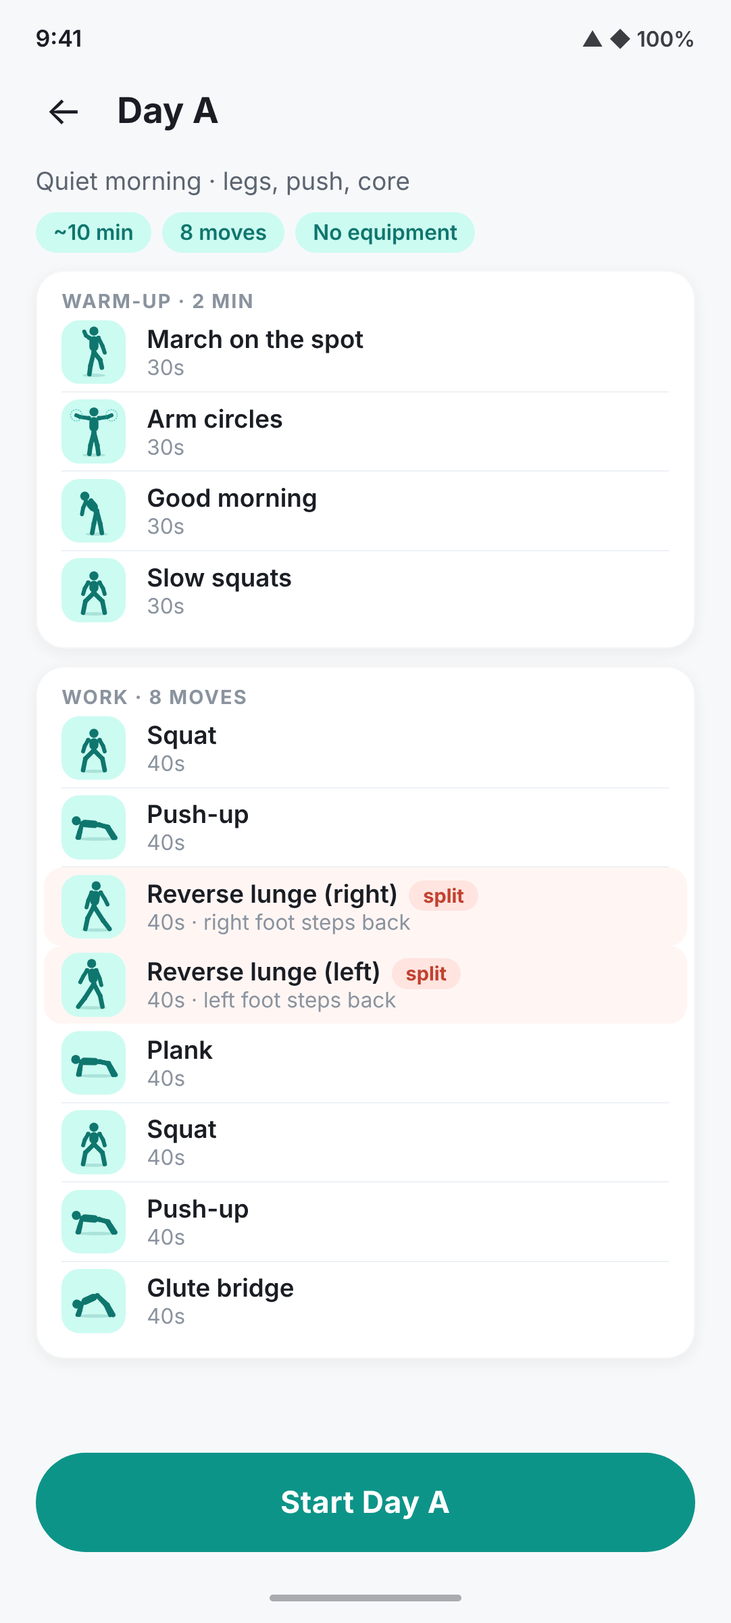
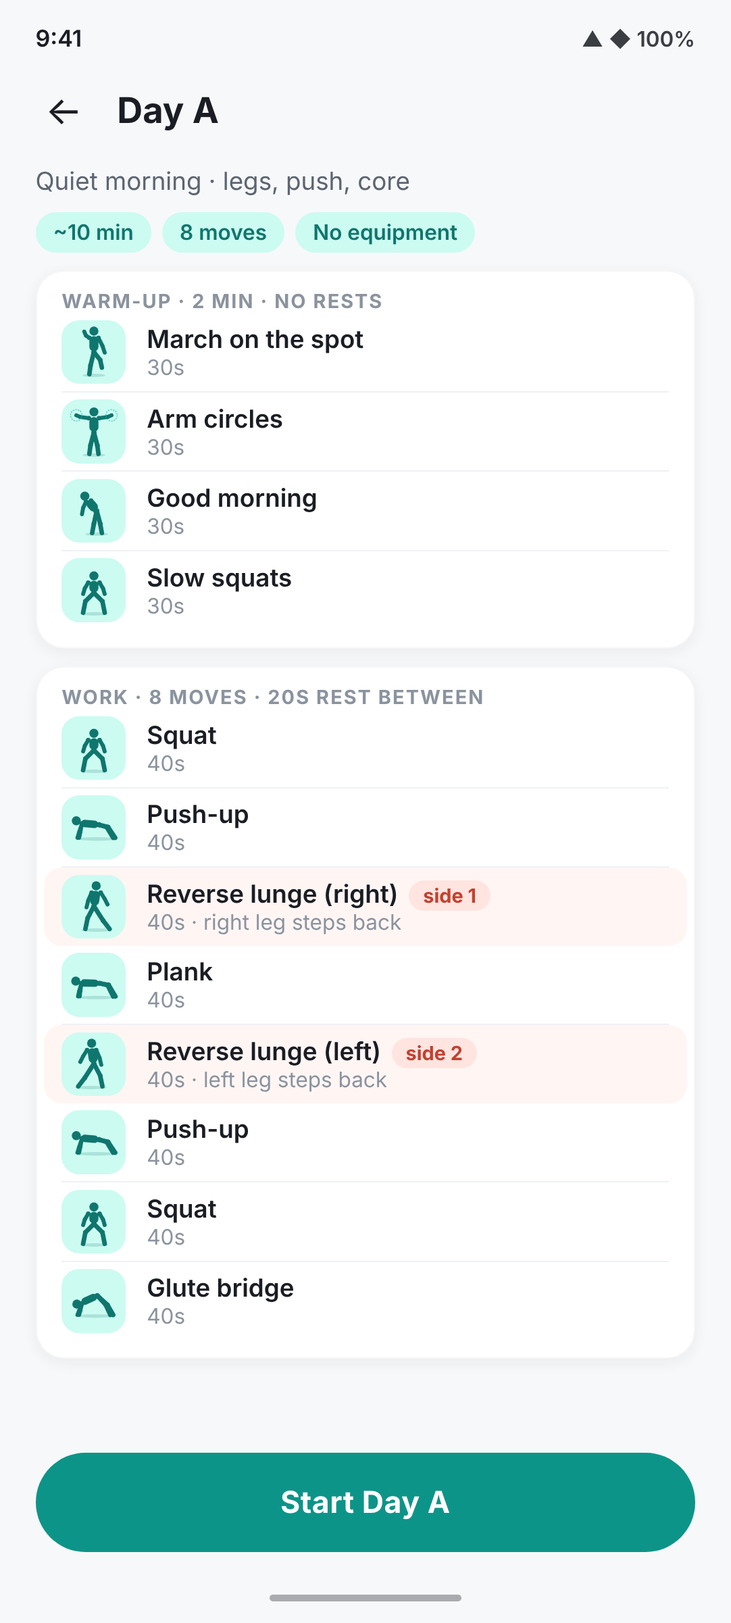
Revise Day A mockups: lunge order, clearer next-up, warm-up preview
Right lunge now means the right leg steps back, each side gets the full
40s, and Plank sits between the two sides. Next-up blocks use a coral
banner, dashed card and ghosted figure so they can't be confused with
the current move. Adds a warm-up screen that previews the next move for
the last quarter of each warm-up move.

diff --git a/docs/mockups/dayA-feedback/src/d-first-workout-card.html b/docs/mockups/dayA-feedback/src/d-first-workout-card.html
@@ -1,23 +1,4 @@
-<!doctype html><html><head><meta charset="utf-8"><link rel="stylesheet" href="../../src/shared.css"><link rel="stylesheet" href="extra.css"></head><body><div class="phone"><div class="status-bar"><span>9:41</span><span class="status-icons">▲ ◆ 100%</span></div>
-<div class="topbar"><div class="icon-btn">←</div><div class="title">Day A</div></div><div class="content" style="gap:10px">
-<div><div class="sub">Quiet morning · legs, push, core</div><div class="row" style="margin-top:8px;gap:6px"><span class="chip">~10 min</span><span class="chip">8 moves</span><span class="chip">No equipment</span></div></div>
-<div class="card" style="padding:10px 14px"><div class="lbl">Warm-up · 2 min</div><div class="list">
-<div class="item "><div class="thumb"><img class="" src="../../../../assets/figures/march.svg"></div><div><div class="nm">March on the spot</div><div class="meta">30s</div></div></div>
-<div class="item "><div class="thumb"><img class="" src="../../../../assets/figures/armCircles.svg"></div><div><div class="nm">Arm circles</div><div class="meta">30s</div></div></div>
-<div class="item "><div class="thumb"><img class="" src="../../../../assets/figures/goodMorning.svg"></div><div><div class="nm">Good morning</div><div class="meta">30s</div></div></div>
-<div class="item "><div class="thumb"><img class="" src="../../../../assets/figures/squat.svg"></div><div><div class="nm">Slow squats</div><div class="meta">30s</div></div></div>
-</div></div><div class="card" style="padding:10px 14px"><div class="lbl">Work · 8 moves</div><div class="list">
-<div class="item "><div class="thumb"><img class="" src="../../../../assets/figures/squat.svg"></div><div><div class="nm">Squat</div><div class="meta">40s</div></div></div>
-<div class="item "><div class="thumb"><img class="" src="../../../../assets/figures/pushup.svg"></div><div><div class="nm">Push-up</div><div class="meta">40s</div></div></div>
-<div class="item hl"><div class="thumb"><img class="" src="../../../../assets/figures/reverseLunge.svg"></div><div><div class="nm">Reverse lunge (right)<span class="new">split</span></div><div class="meta">40s · right foot steps back</div></div></div>
-<div class="item hl"><div class="thumb"><img class="mirror" src="../../../../assets/figures/reverseLunge.svg"></div><div><div class="nm">Reverse lunge (left)<span class="new">split</span></div><div class="meta">40s · left foot steps back</div></div></div>
-<div class="item "><div class="thumb"><img class="" src="../../../../assets/figures/plank.svg"></div><div><div class="nm">Plank</div><div class="meta">40s</div></div></div>
-<div class="item "><div class="thumb"><img class="" src="../../../../assets/figures/squat.svg"></div><div><div class="nm">Squat</div><div class="meta">40s</div></div></div>
-<div class="item "><div class="thumb"><img class="" src="../../../../assets/figures/pushup.svg"></div><div><div class="nm">Push-up</div><div class="meta">40s</div></div></div>
-<div class="item "><div class="thumb"><img class="" src="../../../../assets/figures/gluteBridge.svg"></div><div><div class="nm">Glute bridge</div><div class="meta">40s</div></div></div>
-</div></div><div class="spacer"></div><div class="btn">Start Day A</div></div>
-<div class="nav-bar"><div class="nav-pill"></div></div>
-<div class="scrim"></div>
+<!doctype html><html><head><meta charset="utf-8"><link rel="stylesheet" href="../../src/shared.css"><link rel="stylesheet" href="extra.css"></head><body><div class="phone"><div class="status-bar"><span>9:41</span><span class="status-icons">▲ ◆ 100%</span></div><div class="topbar"><div class="icon-btn">←</div><div class="title">Day A</div></div><div class="content" style="gap:10px"><div><div class="sub">Quiet morning · legs, push, core</div><div class="row" style="margin-top:8px;gap:6px"><span class="chip">~10 min</span><span class="chip">8 moves</span><span class="chip">No equipment</span></div></div><div class="card" style="padding:10px 14px"><div class="lbl">Warm-up · 2 min · no rests</div><div class="list"><div class="item "><div class="thumb"><img class="" src="../../../../assets/figures/march.svg"></div><div><div class="nm">March on the spot</div><div class="meta">30s</div></div></div><div class="item "><div class="thumb"><img class="" src="../../../../assets/figures/armCircles.svg"></div><div><div class="nm">Arm circles</div><div class="meta">30s</div></div></div><div class="item "><div class="thumb"><img class="" src="../../../../assets/figures/goodMorning.svg"></div><div><div class="nm">Good morning</div><div class="meta">30s</div></div></div><div class="item "><div class="thumb"><img class="" src="../../../../assets/figures/squat.svg"></div><div><div class="nm">Slow squats</div><div class="meta">30s</div></div></div></div></div><div class="card" style="padding:10px 14px"><div class="lbl">Work · 8 moves · 20s rest between</div><div class="list"><div class="item "><div class="thumb"><img class="" src="../../../../assets/figures/squat.svg"></div><div><div class="nm">Squat</div><div class="meta">40s</div></div></div><div class="item "><div class="thumb"><img class="" src="../../../../assets/figures/pushup.svg"></div><div><div class="nm">Push-up</div><div class="meta">40s</div></div></div><div class="item hl"><div class="thumb"><img class="" src="../../../../assets/figures/reverseLunge.svg"></div><div><div class="nm">Reverse lunge (right)<span class="new">side 1</span></div><div class="meta">40s · right leg steps back</div></div></div><div class="item "><div class="thumb"><img class="" src="../../../../assets/figures/plank.svg"></div><div><div class="nm">Plank</div><div class="meta">40s</div></div></div><div class="item hl"><div class="thumb"><img class="mirror" src="../../../../assets/figures/reverseLunge.svg"></div><div><div class="nm">Reverse lunge (left)<span class="new">side 2</span></div><div class="meta">40s · left leg steps back</div></div></div><div class="item "><div class="thumb"><img class="" src="../../../../assets/figures/pushup.svg"></div><div><div class="nm">Push-up</div><div class="meta">40s</div></div></div><div class="item "><div class="thumb"><img class="" src="../../../../assets/figures/squat.svg"></div><div><div class="nm">Squat</div><div class="meta">40s</div></div></div><div class="item "><div class="thumb"><img class="" src="../../../../assets/figures/gluteBridge.svg"></div><div><div class="nm">Glute bridge</div><div class="meta">40s</div></div></div></div></div><div class="spacer"></div><div class="btn">Start Day A</div></div><div class="nav-bar"><div class="nav-pill"></div></div><div class="scrim"></div>
 <div class="dialog"><div class="badge"><img src="../../../../assets/figures/march.svg" style="width:44px;height:44px"></div>
 <h2>Before you start</h2>
 <p>Don't worry about getting everything right — you'll get familiar with the moves over time.</p>

diff --git a/docs/mockups/dayA-feedback/src/a-dayA-list.html b/docs/mockups/dayA-feedback/src/a-dayA-list.html
@@ -1,19 +1,1 @@
-<!doctype html><html><head><meta charset="utf-8"><link rel="stylesheet" href="../../src/shared.css"><link rel="stylesheet" href="extra.css"></head><body><div class="phone"><div class="status-bar"><span>9:41</span><span class="status-icons">▲ ◆ 100%</span></div>
-<div class="topbar"><div class="icon-btn">←</div><div class="title">Day A</div></div><div class="content" style="gap:10px">
-<div><div class="sub">Quiet morning · legs, push, core</div><div class="row" style="margin-top:8px;gap:6px"><span class="chip">~10 min</span><span class="chip">8 moves</span><span class="chip">No equipment</span></div></div>
-<div class="card" style="padding:10px 14px"><div class="lbl">Warm-up · 2 min</div><div class="list">
-<div class="item "><div class="thumb"><img class="" src="../../../../assets/figures/march.svg"></div><div><div class="nm">March on the spot</div><div class="meta">30s</div></div></div>
-<div class="item "><div class="thumb"><img class="" src="../../../../assets/figures/armCircles.svg"></div><div><div class="nm">Arm circles</div><div class="meta">30s</div></div></div>
-<div class="item "><div class="thumb"><img class="" src="../../../../assets/figures/goodMorning.svg"></div><div><div class="nm">Good morning</div><div class="meta">30s</div></div></div>
-<div class="item "><div class="thumb"><img class="" src="../../../../assets/figures/squat.svg"></div><div><div class="nm">Slow squats</div><div class="meta">30s</div></div></div>
-</div></div><div class="card" style="padding:10px 14px"><div class="lbl">Work · 8 moves</div><div class="list">
-<div class="item "><div class="thumb"><img class="" src="../../../../assets/figures/squat.svg"></div><div><div class="nm">Squat</div><div class="meta">40s</div></div></div>
-<div class="item "><div class="thumb"><img class="" src="../../../../assets/figures/pushup.svg"></div><div><div class="nm">Push-up</div><div class="meta">40s</div></div></div>
-<div class="item hl"><div class="thumb"><img class="" src="../../../../assets/figures/reverseLunge.svg"></div><div><div class="nm">Reverse lunge (right)<span class="new">split</span></div><div class="meta">40s · right foot steps back</div></div></div>
-<div class="item hl"><div class="thumb"><img class="mirror" src="../../../../assets/figures/reverseLunge.svg"></div><div><div class="nm">Reverse lunge (left)<span class="new">split</span></div><div class="meta">40s · left foot steps back</div></div></div>
-<div class="item "><div class="thumb"><img class="" src="../../../../assets/figures/plank.svg"></div><div><div class="nm">Plank</div><div class="meta">40s</div></div></div>
-<div class="item "><div class="thumb"><img class="" src="../../../../assets/figures/squat.svg"></div><div><div class="nm">Squat</div><div class="meta">40s</div></div></div>
-<div class="item "><div class="thumb"><img class="" src="../../../../assets/figures/pushup.svg"></div><div><div class="nm">Push-up</div><div class="meta">40s</div></div></div>
-<div class="item "><div class="thumb"><img class="" src="../../../../assets/figures/gluteBridge.svg"></div><div><div class="nm">Glute bridge</div><div class="meta">40s</div></div></div>
-</div></div><div class="spacer"></div><div class="btn">Start Day A</div></div>
-<div class="nav-bar"><div class="nav-pill"></div></div></div></body></html>
+<!doctype html><html><head><meta charset="utf-8"><link rel="stylesheet" href="../../src/shared.css"><link rel="stylesheet" href="extra.css"></head><body><div class="phone"><div class="status-bar"><span>9:41</span><span class="status-icons">▲ ◆ 100%</span></div><div class="topbar"><div class="icon-btn">←</div><div class="title">Day A</div></div><div class="content" style="gap:10px"><div><div class="sub">Quiet morning · legs, push, core</div><div class="row" style="margin-top:8px;gap:6px"><span class="chip">~10 min</span><span class="chip">8 moves</span><span class="chip">No equipment</span></div></div><div class="card" style="padding:10px 14px"><div class="lbl">Warm-up · 2 min · no rests</div><div class="list"><div class="item "><div class="thumb"><img class="" src="../../../../assets/figures/march.svg"></div><div><div class="nm">March on the spot</div><div class="meta">30s</div></div></div><div class="item "><div class="thumb"><img class="" src="../../../../assets/figures/armCircles.svg"></div><div><div class="nm">Arm circles</div><div class="meta">30s</div></div></div><div class="item "><div class="thumb"><img class="" src="../../../../assets/figures/goodMorning.svg"></div><div><div class="nm">Good morning</div><div class="meta">30s</div></div></div><div class="item "><div class="thumb"><img class="" src="../../../../assets/figures/squat.svg"></div><div><div class="nm">Slow squats</div><div class="meta">30s</div></div></div></div></div><div class="card" style="padding:10px 14px"><div class="lbl">Work · 8 moves · 20s rest between</div><div class="list"><div class="item "><div class="thumb"><img class="" src="../../../../assets/figures/squat.svg"></div><div><div class="nm">Squat</div><div class="meta">40s</div></div></div><div class="item "><div class="thumb"><img class="" src="../../../../assets/figures/pushup.svg"></div><div><div class="nm">Push-up</div><div class="meta">40s</div></div></div><div class="item hl"><div class="thumb"><img class="" src="../../../../assets/figures/reverseLunge.svg"></div><div><div class="nm">Reverse lunge (right)<span class="new">side 1</span></div><div class="meta">40s · right leg steps back</div></div></div><div class="item "><div class="thumb"><img class="" src="../../../../assets/figures/plank.svg"></div><div><div class="nm">Plank</div><div class="meta">40s</div></div></div><div class="item hl"><div class="thumb"><img class="mirror" src="../../../../assets/figures/reverseLunge.svg"></div><div><div class="nm">Reverse lunge (left)<span class="new">side 2</span></div><div class="meta">40s · left leg steps back</div></div></div><div class="item "><div class="thumb"><img class="" src="../../../../assets/figures/pushup.svg"></div><div><div class="nm">Push-up</div><div class="meta">40s</div></div></div><div class="item "><div class="thumb"><img class="" src="../../../../assets/figures/squat.svg"></div><div><div class="nm">Squat</div><div class="meta">40s</div></div></div><div class="item "><div class="thumb"><img class="" src="../../../../assets/figures/gluteBridge.svg"></div><div><div class="nm">Glute bridge</div><div class="meta">40s</div></div></div></div></div><div class="spacer"></div><div class="btn">Start Day A</div></div><div class="nav-bar"><div class="nav-pill"></div></div></div></body></html>

diff --git a/docs/mockups/dayA-feedback/src/c-rest-next.html b/docs/mockups/dayA-feedback/src/c-rest-next.html
@@ -1,9 +1,1 @@
-<!doctype html><html><head><meta charset="utf-8"><link rel="stylesheet" href="../../src/shared.css"><link rel="stylesheet" href="extra.css"></head><body><div class="phone"><div class="status-bar"><span>9:41</span><span class="status-icons">▲ ◆ 100%</span></div>
-<div class="topbar"><div class="icon-btn">✕</div><div class="title">Rest</div><div class="spacer"></div><span class="muted">Next: move 4 of 8</span></div><div class="content" style="gap:14px">
-<div class="ringrow" style="margin-top:10px"><svg width="150" height="150" viewBox="0 0 150 150"><circle cx="75" cy="75" r="62" fill="none" stroke="#E3E8EE" stroke-width="12"/><circle cx="75" cy="75" r="62" fill="none" stroke="#F59E0B" stroke-width="12" stroke-linecap="round" stroke-dasharray="233.7 389.6" transform="rotate(-90 75 75)"/><text x="75" y="80" text-anchor="middle" font-size="44" font-weight="800" fill="#1F2A33" font-family="Roboto,sans-serif">12</text><text x="75" y="104" text-anchor="middle" font-size="13" fill="#8A939E" font-family="Roboto,sans-serif">rest</text></svg></div>
-<div class="exname" style="font-size:24px">Catch your breath</div>
-<div class="card"><div class="lbl" style="margin-bottom:10px">Next up</div><div class="nextcard"><div class="thumb"><img class="mirror" src="../../../../assets/figures/reverseLunge.svg"></div><div><div style="font-size:20px;font-weight:800;color:#1F2A33">Reverse lunge (left)</div><div class="cue" style="text-align:left;padding:4px 0 0">Step your <b>left</b> foot back and lower until both knees bend about 90°. Front heel stays planted.</div></div></div></div>
-<div class="fig" style="max-height:250px"><img class="mirror" style="max-height:230px" src="../../../../assets/figures/reverseLunge.svg"></div>
-<div class="spacer"></div><div class="ctrls"><div class="side">‹ Prev</div><div class="pause">Pause</div><div class="side skip">Skip ›</div></div>
-<div class="muted" style="text-align:center">No ads during the timer</div></div>
-<div class="nav-bar"><div class="nav-pill"></div></div></div></body></html>
+<!doctype html><html><head><meta charset="utf-8"><link rel="stylesheet" href="../../src/shared.css"><link rel="stylesheet" href="extra.css"></head><body><div class="phone"><div class="status-bar"><span>9:41</span><span class="status-icons">▲ ◆ 100%</span></div><div class="topbar"><div class="icon-btn">✕</div><div class="title">Rest</div><div class="spacer"></div><span class="muted">After move 4 of 8</span></div><div class="content" style="gap:14px"><div class="ringrow" style="margin-top:8px"><svg width="170" height="170" viewBox="0 0 150 150"><circle cx="75" cy="75" r="62" fill="none" stroke="#E3E8EE" stroke-width="12"/><circle cx="75" cy="75" r="62" fill="none" stroke="#F59E0B" stroke-width="12" stroke-linecap="round" stroke-dasharray="233.7 389.6" transform="rotate(-90 75 75)"/><text x="75" y="82" text-anchor="middle" font-size="46" font-weight="800" fill="#1F2A33" font-family="Roboto,sans-serif">12</text><text x="75" y="106" text-anchor="middle" font-size="13" fill="#5C6570" font-family="Roboto,sans-serif">rest left</text></svg></div><div class="exname" style="font-size:26px">Catch your breath</div><div class="sub" style="text-align:center;margin-top:-8px">Plank done. Nice work.</div><div class="nu"><div class="nu-banner">NEXT UP · GET READY<span>starts in 12s</span></div><div class="nu-body"><div class="nu-fig"><img class="mirror" src="../../../../assets/figures/reverseLunge.svg"></div><div><div class="nu-name">Reverse lunge (left)</div><div class="nu-cue">Step your <b>left</b> foot back and lower until both knees bend about 90°. Front heel stays planted.</div></div></div></div><div class="getready">Starts automatically when the rest ends</div><div class="spacer"></div><div class="ctrls"><div class="side">‹ Prev</div><div class="pause">Pause</div><div class="side skip">Skip ›</div></div><div class="muted" style="text-align:center">No ads during the timer</div></div><div class="nav-bar"><div class="nav-pill"></div></div></div></body></html>

diff --git a/docs/mockups/dayA-feedback/src/b-exercise-cue.html b/docs/mockups/dayA-feedback/src/b-exercise-cue.html
@@ -1,10 +1,1 @@
-<!doctype html><html><head><meta charset="utf-8"><link rel="stylesheet" href="../../src/shared.css"><link rel="stylesheet" href="extra.css"></head><body><div class="phone"><div class="status-bar"><span>9:41</span><span class="status-icons">▲ ◆ 100%</span></div>
-<div class="topbar"><div class="icon-btn">✕</div><div class="title">Work</div><div class="spacer"></div><span class="muted">Move 3 of 8</span></div><div class="content" style="gap:10px">
-<div class="fig"><img src="../../../../assets/figures/reverseLunge.svg"></div>
-<div class="exname">Reverse lunge (right)</div>
-<div class="cue">Step your <b>right</b> foot back and lower until both knees bend about 90°. Drive up through the front heel.</div>
-<div class="ringrow"><svg width="150" height="150" viewBox="0 0 150 150"><circle cx="75" cy="75" r="62" fill="none" stroke="#E3E8EE" stroke-width="12"/><circle cx="75" cy="75" r="62" fill="none" stroke="#0D9488" stroke-width="12" stroke-linecap="round" stroke-dasharray="264.9 389.6" transform="rotate(-90 75 75)"/><text x="75" y="80" text-anchor="middle" font-size="44" font-weight="800" fill="#1F2A33" font-family="Roboto,sans-serif">27</text><text x="75" y="104" text-anchor="middle" font-size="13" fill="#8A939E" font-family="Roboto,sans-serif">seconds</text></svg></div>
-<div class="card" style="padding:10px 14px"><div class="row"><div class="list"><div class="thumb" style="width:40px;height:40px;border-radius:10px;background:var(--accent-soft);display:flex;align-items:center;justify-content:center"><img class="mirror" style="width:34px;height:34px" src="../../../../assets/figures/reverseLunge.svg"></div></div><div><div class="muted">Next up</div><div style="font-weight:700">Reverse lunge (left)</div></div></div></div>
-<div class="ctrls"><div class="side">‹ Prev</div><div class="pause">Pause</div><div class="side skip">Skip ›</div></div>
-<div class="muted" style="text-align:center">No ads during the timer</div></div>
-<div class="nav-bar"><div class="nav-pill"></div></div></div></body></html>
+<!doctype html><html><head><meta charset="utf-8"><link rel="stylesheet" href="../../src/shared.css"><link rel="stylesheet" href="extra.css"></head><body><div class="phone"><div class="status-bar"><span>9:41</span><span class="status-icons">▲ ◆ 100%</span></div><div class="topbar"><div class="icon-btn">✕</div><div class="title">Work</div><div class="spacer"></div><span class="muted">Move 3 of 8</span></div><div class="content" style="gap:10px"><div class="fig"><img src="../../../../assets/figures/reverseLunge.svg"></div><div class="exname">Reverse lunge (right)</div><div class="cue">Step your <b>right</b> foot back and lower until both knees bend about 90°. Front heel stays planted.</div><div class="ringrow"><svg width="150" height="150" viewBox="0 0 150 150"><circle cx="75" cy="75" r="62" fill="none" stroke="#E3E8EE" stroke-width="12"/><circle cx="75" cy="75" r="62" fill="none" stroke="#0D9488" stroke-width="12" stroke-linecap="round" stroke-dasharray="263.0 389.6" transform="rotate(-90 75 75)"/><text x="75" y="82" text-anchor="middle" font-size="46" font-weight="800" fill="#1F2A33" font-family="Roboto,sans-serif">27</text><text x="75" y="106" text-anchor="middle" font-size="13" fill="#5C6570" font-family="Roboto,sans-serif">seconds left</text></svg></div><div class="chipnu"><span class="tag">NEXT UP</span><img src="../../../../assets/figures/plank.svg"><span class="n">Plank</span><span class="spacer"></span><span class="muted">after rest</span></div><div class="ctrls"><div class="side">‹ Prev</div><div class="pause">Pause</div><div class="side skip">Skip ›</div></div><div class="muted" style="text-align:center">No ads during the timer</div></div><div class="nav-bar"><div class="nav-pill"></div></div></div></body></html>

diff --git a/docs/mockups/dayA-feedback/src/e-warmup-next-preview.html b/docs/mockups/dayA-feedback/src/e-warmup-next-preview.html
@@ -1,0 +1,1 @@
+<!doctype html><html><head><meta charset="utf-8"><link rel="stylesheet" href="../../src/shared.css"><link rel="stylesheet" href="extra.css"></head><body><div class="phone"><div class="status-bar"><span>9:41</span><span class="status-icons">▲ ◆ 100%</span></div><div class="topbar"><div class="icon-btn">✕</div><div class="title">Warm-up</div><div class="spacer"></div><span class="muted">Warm-up 2/4</span></div><div class="content" style="gap:14px"><div class="now"><div class="thumb"><img src="../../../../assets/figures/armCircles.svg"></div><div><div class="nowlbl">NOW · KEEP GOING</div><div style="font-size:20px;font-weight:800;color:#1F2A33">Arm circles</div></div></div><div class="ringrow"><svg width="170" height="170" viewBox="0 0 150 150"><circle cx="75" cy="75" r="62" fill="none" stroke="#E3E8EE" stroke-width="12"/><circle cx="75" cy="75" r="62" fill="none" stroke="#0D9488" stroke-width="12" stroke-linecap="round" stroke-dasharray="90.9 389.6" transform="rotate(-90 75 75)"/><text x="75" y="82" text-anchor="middle" font-size="46" font-weight="800" fill="#1F2A33" font-family="Roboto,sans-serif">7</text><text x="75" y="106" text-anchor="middle" font-size="13" fill="#5C6570" font-family="Roboto,sans-serif">seconds left</text></svg></div><div class="nu"><div class="nu-banner">NEXT UP · GET READY<span>starts in 7s</span></div><div class="nu-body"><div class="nu-fig"><img class="" src="../../../../assets/figures/goodMorning.svg"></div><div><div class="nu-name">Good morning</div><div class="nu-cue">Soft knees, hinge at the hips with a flat back until you feel a hamstring stretch, then stand tall.</div></div></div></div><div class="getready">No rest in the warm-up: flow straight in</div><div class="spacer"></div><div class="ctrls"><div class="side">‹ Prev</div><div class="pause">Pause</div><div class="side skip">Skip ›</div></div><div class="muted" style="text-align:center">Preview shows for the last 25% of each warm-up move</div></div><div class="nav-bar"><div class="nav-pill"></div></div></div></body></html>

diff --git a/docs/mockups/dayA-feedback/src/extra.css b/docs/mockups/dayA-feedback/src/extra.css
@@ -39,3 +39,22 @@
 .list .nm{font-size:14px}
 .hl{padding:4px 10px!important}
 .note{background:rgba(15,18,24,.8);border-radius:12px;padding:8px 12px;bottom:110px;opacity:1}
+/* round 2: distinct NEXT UP styling */
+.nu{background:#FFF4F1;border:2px dashed #FF9E92;border-radius:20px;padding:0 0 14px;overflow:hidden}
+.nu-banner{background:var(--coral);color:#fff;font-weight:800;font-size:14px;letter-spacing:1.4px;padding:8px 14px;display:flex;justify-content:space-between;align-items:center}
+.nu-banner span{font-weight:600;letter-spacing:.3px;font-size:13px;opacity:.95}
+.nu-body{display:flex;gap:12px;padding:12px 14px 0;align-items:flex-start}
+.nu-fig{width:84px;height:84px;border-radius:14px;border:2px dashed #FFB4AA;display:flex;align-items:center;justify-content:center;flex-shrink:0;background:#fff}
+.nu-fig img{width:70px;height:70px;opacity:.45;filter:grayscale(.4)}
+.nu-name{font-size:20px;font-weight:800;color:#C2412F;line-height:1.2}
+.nu-cue{font-size:14px;line-height:1.4;color:var(--text-2);margin-top:4px}
+.nu-cue b{color:var(--navy)}
+.chipnu{display:flex;align-items:center;gap:10px;background:#FFF4F1;border:1.5px dashed #FF9E92;border-radius:14px;padding:8px 12px}
+.chipnu .tag{background:var(--coral);color:#fff;font-size:11px;font-weight:800;letter-spacing:1px;padding:3px 8px;border-radius:6px}
+.chipnu img{width:30px;height:30px;opacity:.45}
+.chipnu .n{font-weight:700;color:#C2412F;font-size:15px}
+.now{display:flex;align-items:center;gap:12px;background:#fff;border-radius:16px;padding:10px 14px;box-shadow:var(--shadow)}
+.now .thumb{width:52px;height:52px;border-radius:12px;background:var(--accent-soft);display:flex;align-items:center;justify-content:center}
+.now .thumb img{width:46px;height:46px}
+.nowlbl{font-size:11px;font-weight:800;letter-spacing:1px;color:var(--accent-dark)}
+.getready{text-align:center;font-size:15px;font-weight:700;color:#C2412F}

diff --git a/docs/mockups/dayA-feedback/README.md b/docs/mockups/dayA-feedback/README.md
@@ -2,11 +2,14 @@
 
 Mockups only, no app changes yet. Rendered from `src/*.html` with headless Chrome (412x915 @2.625x).
 
-- `png/a-dayA-list.png`: Day A overview with the reverse lunge split into right and left (8 work moves)
-- `png/b-exercise-cue.png`: exercise screen with a short cue under the name
-- `png/c-rest-next.png`: rest screen showing the next move's name and a short how-to
+- `png/a-dayA-list.png`: Day A overview. Reverse lunge is split into right (right leg steps back) and left, 40s each, with Plank in between for variety (8 work moves)
+- `png/b-exercise-cue.png`: exercise screen with a short cue under the name, plus a coral dashed "NEXT UP" chip
+- `png/c-rest-next.png`: rest screen with a coral "NEXT UP · GET READY" card (ghosted figure, name, how-to); the ring is the rest time left
+- `png/e-warmup-next-preview.png`: warm-up has no rests, so for the last 25% of each move the countdown keeps running and the screen previews the next move
 - `png/d-first-workout-card.png`: "Before you start" card with a "Don't show this again" checkbox
-- `png/overview.png`: all four side by side
+- `png/overview.png`: all five side by side
+
+Naming: "Reverse lunge (right)" = right leg goes back. "Lunge (right)" (forward) = right leg goes forward. Right side first.
 
 ## GUIDE.md note (not changed yet)
 
